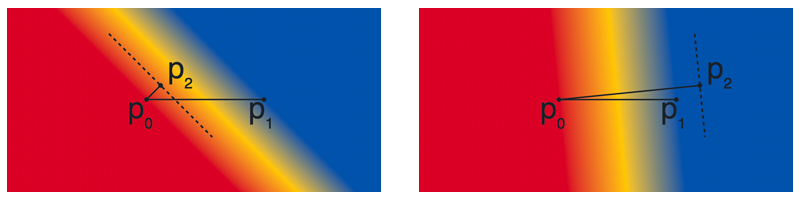
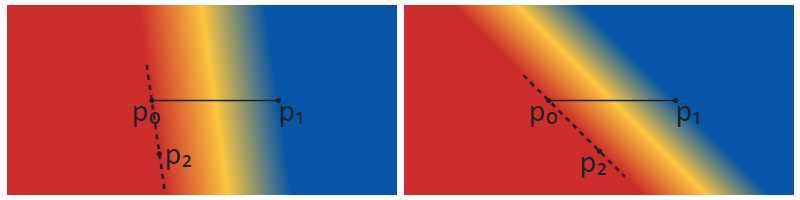
Revise linear gradient definition to make p2 the 'normal'

diff --git a/OFF_AMD2_WD.md b/OFF_AMD2_WD.md
@@ -289,52 +289,52 @@ extend modes and do not support repetition of gradient patterns. See
 
 **5.7.11.1.2.2 Linear gradients**
 
-A linear gradient provide gradation of colors along a straight line. The
-gradient is defined by two points, p₀ and p₁, plus a color line, with stop
-offset 0 aligned to p₀ and stop offset 1.0 aligned to p₁. (The line passing
-through p₀ and p₁ will be referred to as line p₀p₁.) Colors at each position on
-line p₀p₁ are interpolated using the color line. For each position along line
-p₀p₁, the color at that position is projected on other side of the line.
+A linear gradient provides gradation of colors along a straight line. The
+gradient is defined by three points, p₀, p₁ and p₂, plus a color line. The color
+line is positioned in the design grid with stop offset 0 aligned to p₀ and stop
+offset 1.0 aligned to p₁. (The line passing through p₀ and p₁ will be referred
+to as line p₀p₁.) Colors at each position on line p₀p₁ are interpolated using
+the color line. For each position along line p₀p₁, the color at that position is
+projected on other side of the line.
 
-An additional point, p₂, is also used to rotate the gradient orientation in the
+The additional point, p₂, is used to rotate the gradient orientation in the
 space on either side of the line p₀p₁. The line passing through points p₀ and p₂
-(line p₀p₂) determine the direction in which the gradient progresses. If p₂ is
-is on line p₀p₁, there is no rotation: colors in the space on either side of
-line p₀p₁ extend in the perpendicular direction. But if p₂ is not on line p₀p₁
-(i.e., p₀p₂ is not colinear with p₀p₁), then the gradient is drawn skewed by the
-acute angle (less than 90°) between the lines p₀p₁ and p₀p₂. For each position
-along line p₀p₁, the color at that position projects on either side in a
-direction orthogonal to line p₀p₂.
+(line p₀p₂) determines the direction in which colors are projected on either
+side of the color line. That is, for each position on line p₀p₁, the line that
+passes through that position on line p₀p₁ and that is parallel to line p₀p₂ will
+have the color for that position on line p₀p₁.
+
+Points p₁ and p₂ shall not be the same as point p₀. 
+
+If line p₀p₂ is parallel to line p₀p₁ (or the angle between them is near-zero
+for an implementation-defined threshold), then the gradient is ill-formed and
+shall not be rendered.
 
 NOTE: An implementation can derive a single vector, p₀p₃, by computing the
-orthogonal projection of vector p₀p₁ onto line p₀p₂ to obtain point p₃. The
-linear gradient defined using p₀, p₁ and p₂ as described above is functionally
-equivalent to a linear gradient defined by aligning stop offset 0 to p₀ and
-aligning stop offset 1.0 to p₃, with each color projecting on either side of
-that line in an orthogonal direction. This specification uses three points, p₀,
-p₁ and p₂, as that provides greater flexibility in controlling the placement and
-orientation of the gradient, as well as variations thereof.
-
-If the dot-product (p₁ - p₀) · (p₂ - p₀) is zero (or near-zero for an
-implementation-defined definition) then the gradient is ill-formed and shall not
-be rendered.
+orthogonal projection of vector p₀p₁ onto a line perpendicular to line p₀p₂ to
+obtain point p₃. The linear gradient defined using p₀, p₁ and p₂ as described
+above is functionally equivalent to a linear gradient defined by aligning stop
+offset 0 to p₀ and aligning stop offset 1.0 to p₃, with each color projecting on
+either side of that line in a perpendicular direction. This specification uses
+three points, p₀, p₁ and p₂, as that provides greater flexibility in controlling
+the placement and orientation of the gradient, as well as variations thereof.
 
 Figures 5.12 – 5.14 illustrate linear gradients using the three different color
 line extend modes. Each figure illustrates linear gradients with two different
 rotation vectors. In each case, three color stops are specified: red at 0.0,
 yellow at 0.5, and red at 1.0.
 
-![Linear gradients with different rotation vectors using the pad extend mode.](images/colr_linear_gradients_pad.png)
+![Linear gradients with different color-projection orientations using the pad extend mode.](images/colr_linear_gradients_pad.png)
 
-**Figure 5.12 Linear gradients with different rotation vectors using the pad extend mode.**
+**Figure 5.12 Linear gradients with different color-projection orientations using the pad extend mode.**
 
-![Linear gradients with different rotation vectors using the repeat extend mode.](images/colr_linear_gradients_repeat.png)
+![Linear gradients with different color-projection orientations vectors using the repeat extend mode.](images/colr_linear_gradients_repeat.png)
 
-**Figure 5.13 Linear gradients with different rotation vectors using the repeat extend mode.**
+**Figure 5.13 Linear gradients with different color-projection orientations vectors using the repeat extend mode.**
 
-![Linear gradients with different rotation vectors using the reflect extend mode.](images/colr_linear_gradients_reflect.png)
+![Linear gradients with different color-projection orientations vectors using the reflect extend mode.](images/colr_linear_gradients_reflect.png)
 
-**Figure 5.14 Linear gradients with different rotation vectors using the reflect extend mode.**
+**Figure 5.14 Linear gradients with different color-projection orientations vectors using the reflect extend mode.**
 
 **5.7.11.1.2.3 Radial gradients**
 
@@ -1511,12 +1511,12 @@ For information about applying a fill to a shape, see 5.7.11.1.3.
 |-|-|-|
 | uint8 | format | Set to 3. |
 | Offset24 | colorLineOffset | Offset to ColorLine table. |
-| VarFWord | x0 | Start point x coordinate. |
-| VarFWord | y0 | Start point y coordinate. |
-| VarFWord | x1 | End point x coordinate. |
-| VarFWord | y1 | End point y coordinate. |
-| VarFWord | x2 | Rotation vector end point x coordinate. |
-| VarFWord | y2 | Rotation vector end point y coordinate. |
+| VarFWord | x0 | Start point (p₀) x coordinate. |
+| VarFWord | y0 | Start point (p₀) y coordinate. |
+| VarFWord | x1 | End point (p₁) x coordinate. |
+| VarFWord | y1 | End point (p₁) y coordinate. |
+| VarFWord | x2 | Orientation end point (p₂) x coordinate. |
+| VarFWord | y2 | Orientation end point (p₂) y coordinate. |
 
 **5.7.11.2.5.4 Format 4: PaintRadialGradient**
 
